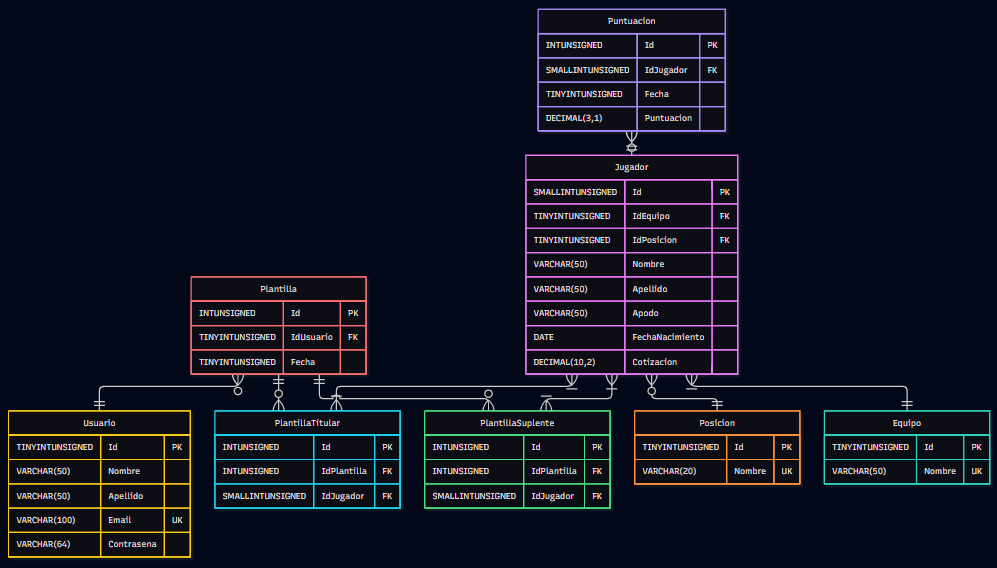
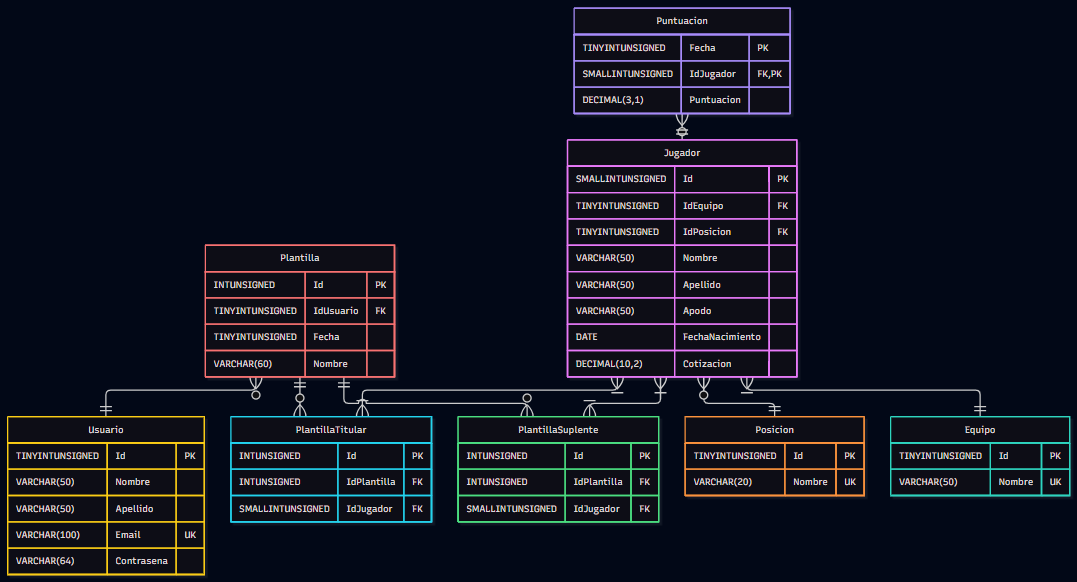
DDL actualizado -> DER actualizado -> Model, Repo, Service, Controller de Plantilla/Puntuacion actualizado

Changed region(s): [[0.0, 0.0, 0.995, 1.0]]

diff --git a/Proyecto Minimal API/Controllers/ControllerPuntuacion.cs b/Proyecto Minimal API/Controllers/ControllerPuntuacion.cs
@@ -19,11 +19,9 @@ namespace Controllers
         [HttpPost]
         public IActionResult<Puntuacion> Agregar(Puntuacion puntuacion)
         {
-            if (puntuacion.Id == 0)
+            if (puntuacion.Fecha == 0)
                 return BadRequest();
             if (puntuacion.IdJugador == 0)
-                return BadRequest();
-            if (puntuacion.Fecha == 0)
                 return BadRequest();
             if (puntuacion.Puntuacion == null)
                 return BadRequest();
@@ -37,11 +35,33 @@ namespace Controllers
             var puntuaciones = _service.ObtenerTodos();
             return Ok(puntuaciones);
         }
-
-        [HttpGet("{id}")]
-        public IActionResult<Puntuacion> ObtenerPorId(int id)
+        
+        [HttpGet("fecha/{fecha}")]
+        public IActionResult<Puntuacion> ObtenerPorFecha(byte fecha)
         {
-            var puntuacion = _service.ObtenerPorId(id);
+            var puntuacion = _service.ObtenerPorFecha(fecha);
+            if (puntuacion == null)
+            {
+                return NotFound();
+            }
+            return Ok(puntuacion);
+        }
+
+        [HttpGet("jugador/{id}")]
+        public IActionResult<Puntuacion> ObtenerPorJugador(ushort id)
+        {
+            var puntuacion = _service.ObtenerPorJugador(id);
+            if (puntuacion == null)
+            {
+                return NotFound();
+            }
+            return Ok(puntuacion);
+        }
+
+        [HttpGet("fecha/{fecha}/jugador/{id}")]
+        public IActionResult<Puntuacion> ObtenerPorFechaJugador(byte fecha, ushort id)
+        {
+            var puntuacion = _service.ObtenerPorFechaJugador(fecha, id);
             if (puntuacion == null)
             {
                 return NotFound();

diff --git a/Proyecto Minimal API/Controllers/ControllerPlantilla.cs b/Proyecto Minimal API/Controllers/ControllerPlantilla.cs
@@ -28,10 +28,43 @@ namespace Controllers
         }
 
         [HttpGet]
-        public IActionResult<List<Plantilla>> Obtener()
+        public IActionResult<List<Plantilla>> ObtenerTodos()
         {
             var plantillas = _service.ObtenerTodos();
             return Ok(plantillas);
+        }
+
+        [HttpGet("usuario/{id}")]
+        public IActionResult<Plantilla> ObtenerPorIdUsuario(ushort id)
+        {
+            var plantilla = _service.ObtenerPorIdUsuario(id);
+            if (plantilla == null)
+            {
+                return NotFound();
+            }
+            return Ok(plantilla);
+        }
+
+        [HttpGet("fecha/{fecha}")]
+        public IActionResult<Plantilla> ObtenerPorFecha(byte fecha)
+        {
+            var plantilla = _service.ObtenerPorFecha(fecha);
+            if (plantilla == null)
+            {
+                return NotFound();
+            }
+            return Ok(plantilla);
+        }
+
+        [HttpGet("nombre/{nombre}")]
+        public IActionResult<Plantilla> ObtenerPorNombre(string nombre)
+        {
+            var plantilla = _service.ObtenerPorNombre(nombre);
+            if (plantilla == null)
+            {
+                return NotFound();
+            }
+            return Ok(plantilla);
         }
 
         [HttpGet("{id}")]

diff --git a/Proyecto.Core/Services/ServicePlantilla.cs b/Proyecto.Core/Services/ServicePlantilla.cs
@@ -26,22 +26,37 @@ namespace Services
             return _repoPlantilla.ObtenerTodos();
         }
 
-        public Plantilla? ObtenerPorId(ushort id)
+        public Plantilla? ObtenerPorIdUsuario(ushort id)
+        {
+            return _repoPlantilla.ObtenerPorIdUsuario(id);
+        }
+
+        public Plantilla? ObtenerPorFecha(byte fecha)
+        {
+            return _repoPlantilla.ObtenerPorFecha(fecha);
+        }
+
+        public Plantilla? ObtenerPorNombre(string nombre)
+        {
+            return _repoPlantilla.ObtenerPorNombre(nombre);
+        }
+
+        public Plantilla? ObtenerPorId(int id)
         {
             return _repoPlantilla.ObtenerPorId(id);
         }
 
-        public List<Jugador> ObtenerJugadoresPorPlantilla(ushort id)
+        public List<Jugador> ObtenerJugadoresPorPlantilla(int id)
         {
             return _repoPlantilla.ObtenerJugadoresPorPlantilla(id);
         }
 
-        public float ObtenerCalificacionPlantilla(ushort id)
+        public float ObtenerCalificacionPlantilla(int id)
         {
             return _repoPlantilla.ObtenerCalificacionPlantilla(id);
         }
 
-        public bool Eliminar(ushort id)
+        public bool Eliminar(int id)
         {
             return _repoPlantilla.Eliminar(id);
         }

diff --git a/Proyecto.Core/Repositories/RepoClase/RepoPlantilla.cs b/Proyecto.Core/Repositories/RepoClase/RepoPlantilla.cs
@@ -11,7 +11,21 @@ namespace Repositories
         {
             throw new NotImplementedException("Falta conectar el repositorio real de plantillas.");
         }
+        public Plantilla? ObtenerPorIdUsuario(ushort id)
+        {
+            throw new NotImplementedException("Falta conectar el repositorio real de plantillas.");
+        }
 
+        public Plantilla? ObtenerPorFecha(byte fecha)
+        {
+            throw new NotImplementedException("Falta conectar el repositorio real de plantillas.");
+        }
+
+        public Plantilla? ObtenerPorNombre(string nombre)
+        {
+            throw new NotImplementedException("Falta conectar el repositorio real de plantillas.");
+        }
+    
         public Plantilla? ObtenerPorId(int id)
         {
             throw new NotImplementedException("Falta conectar el repositorio real de plantillas.");

diff --git a/Proyecto.Core/Repositories/RepoClase/RepoPuntuacion.cs b/Proyecto.Core/Repositories/RepoClase/RepoPuntuacion.cs
@@ -17,7 +17,17 @@ namespace Repositories
             throw new NotImplementedException("Falta conectar el repositorio real de puntuaciones.");
         }
 
-        public Puntuacion? ObtenerPorId(int id)
+        public Puntuacion? ObtenerPorFecha(byte fecha)
+        {
+            throw new NotImplementedException("Falta conectar el repositorio real de puntuaciones.");
+        }
+
+        public Puntuacion? ObtenerPorJugador(ushort id)
+        {
+            throw new NotImplementedException("Falta conectar el repositorio real de puntuaciones.");
+        }
+
+        public Puntuacion? ObtenerPorFechaJugador(byte fecha, ushort id)
         {
             throw new NotImplementedException("Falta conectar el repositorio real de puntuaciones.");
         }

diff --git a/Proyecto.Core/Services/ServicePuntuacion.cs b/Proyecto.Core/Services/ServicePuntuacion.cs
@@ -26,9 +26,19 @@ namespace Services
             return _repoPuntuacion.ObtenerTodos();
         }
 
-        public Puntuacion? ObtenerPorId(int id)
+        public Puntuacion? ObtenerPorFecha(byte fecha)
         {
-            return _repoPuntuacion.ObtenerPorId(id);
+            return _repoPuntuacion.ObtenerPorFecha(fecha);
+        }
+
+        public Puntuacion? ObtenerPorJugador(ushort id)
+        {
+            return _repoPuntuacion.ObtenerPorJugador(id);
+        }
+
+        public Puntuacion? ObtenerPorFechaJugador(byte fecha, ushort id)
+        {
+            return _repoPuntuacion.ObtenerPorFechaJugador(fecha, id);
         }
 
         public bool Eliminar(int id)

diff --git a/Proyecto.Core/Repositories/Interfaces/IRepoPuntuacion.cs b/Proyecto.Core/Repositories/Interfaces/IRepoPuntuacion.cs
@@ -7,8 +7,9 @@ namespace Interfaces
     public interface IRepoPuntuacion
     {
         List<Puntuacion> ObtenerTodos();
-        Puntuacion? ObtenerPorId(int id);
-        float ObtenerCalificacionPuntuacion(int id);
+        Puntuacion? ObtenerPorFecha(byte fecha);
+        Puntuacion? ObtenerPorJugador(ushort id);
+        Puntuacion? ObtenerPorFechaJugador(byte fecha, ushort id);
         Puntuacion Agregar(Puntuacion puntuacion);
         bool Eliminar(int id);
     }

diff --git a/Proyecto.Core/Repositories/Interfaces/IRepoPlantilla.cs b/Proyecto.Core/Repositories/Interfaces/IRepoPlantilla.cs
@@ -7,6 +7,9 @@ namespace Interfaces
     public interface IRepoPlantilla
     {
         List<Plantilla> ObtenerTodos();
+        Plantilla? ObtenerPorIdUsuario(ushort id);
+        Plantilla? ObtenerPorFecha(byte fecha);
+        Plantilla? ObtenerPorNombre(string nombre);
         Plantilla? ObtenerPorId(int id);
         List<Jugador> ObtenerJugadoresPorPlantilla(int id);
         float ObtenerCalificacionPlantilla(int id);

diff --git a/Proyecto.Core/Models/Puntuacion.cs b/Proyecto.Core/Models/Puntuacion.cs
@@ -3,9 +3,8 @@ namespace Models
 {
     public class Puntuacion
     {
-        public int Id { get; set; }
-        public ushort IdJugador { get; set; }
         public byte Fecha { get; set; }
+        public ushort IdJugador { get; set; }
         public float Puntuacion { get; set; }
     }
 }

diff --git a/Proyecto.Core/Models/Plantilla.cs b/Proyecto.Core/Models/Plantilla.cs
@@ -6,5 +6,6 @@ namespace Models
         public int Id { get; set; }
         public ushort IdUsuario { get; set; }
         public byte Fecha { get; set; }
+        public string? Nombre { get; set; }
     }
 }
